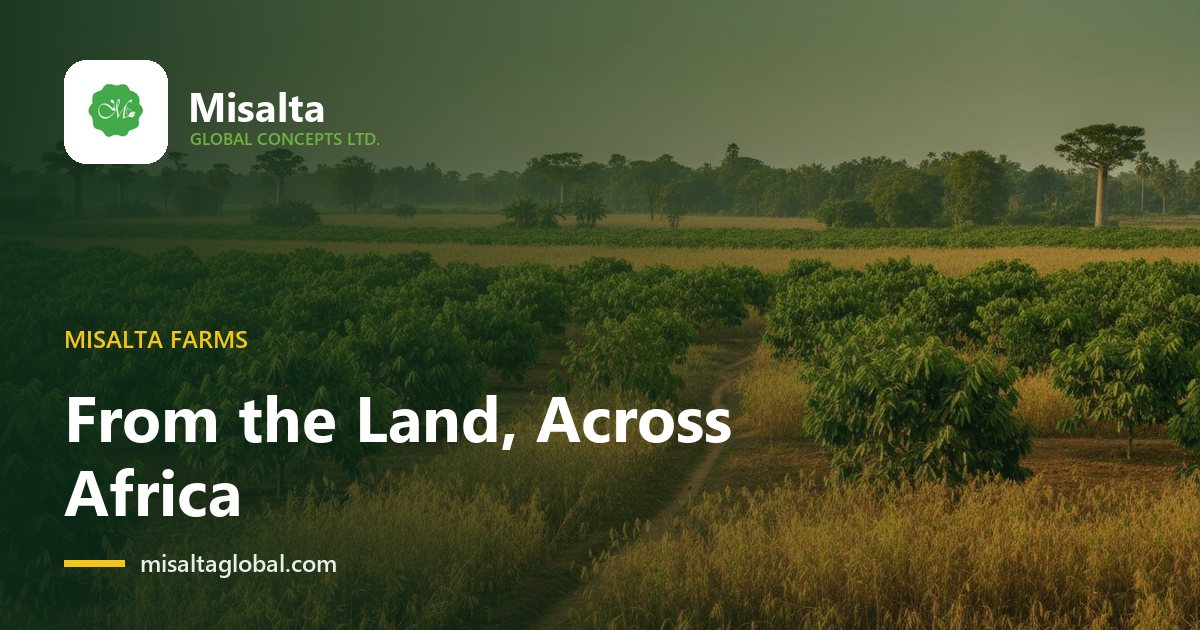
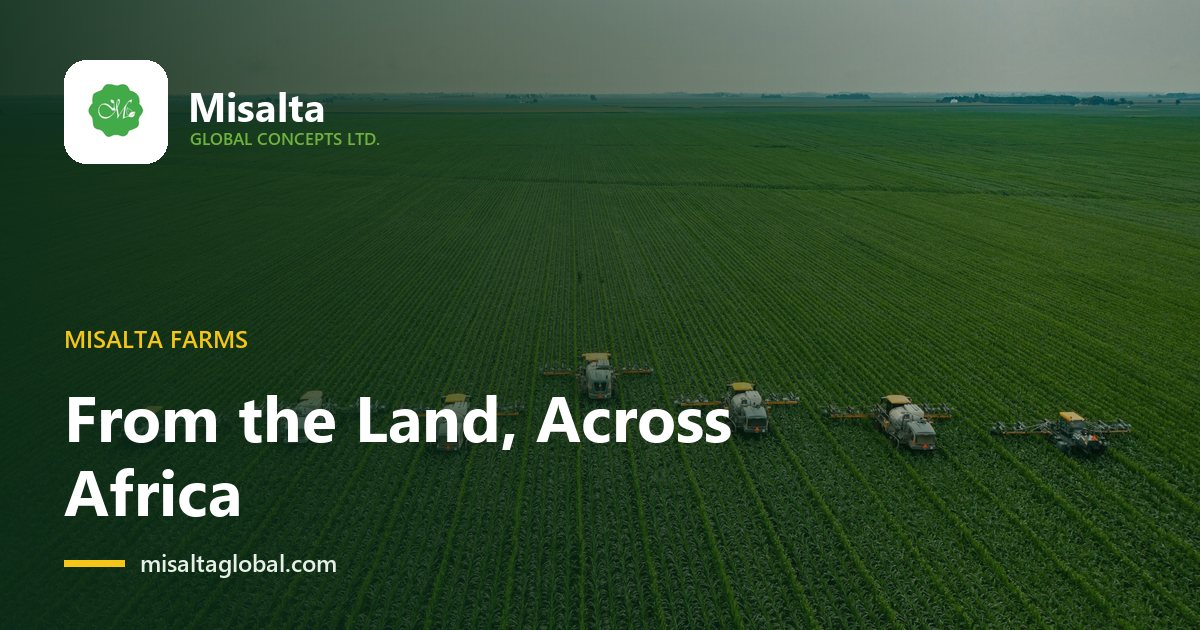
Use nine free stock photos: Logistics truck, Farms field and gallery, Agro Hubs harvest, Trade X precision tech
Pexels and Unsplash photos converted to WebP sm/md/lg; showcase, cards and
share images updated; sources recorded in docs/IMAGE-SOURCES.md; stock
originals kept out of git.

diff --git a/farms.html b/farms.html
@@ -13,7 +13,7 @@
 <body class="v2 agri" data-biz="farms">
 
 <!-- 1 · Hero: status, promise, who it's for, main action -->
-<section class="phero torn-b" style="--shade:linear-gradient(90deg,rgba(20,30,22,.78) 0%,rgba(20,30,22,.45) 60%,rgba(20,30,22,.2) 100%);--bg:url('images/photos/impact_field_panorama-lg.webp');--bg-sm:url('images/photos/impact_field_panorama-md.webp')"><div class="container">
+<section class="phero torn-b" style="--shade:linear-gradient(90deg,rgba(20,30,22,.78) 0%,rgba(20,30,22,.45) 60%,rgba(20,30,22,.2) 100%);--bg:url('images/photos/stock_aerial_tractors-lg.webp');--bg-sm:url('images/photos/stock_aerial_tractors-md.webp')"><div class="container">
   <div class="crumbs" role="navigation" aria-label="Breadcrumb"><a href="index.html">Home</a><i>/</i><a href="businesses.html">Our Businesses</a><i>/</i><span>Misalta Farms</span></div>
   <div style="margin-top:16px"><span class="chip dev on-dark">In development</span></div>
   <h1>From the Land, Across Africa</h1>
@@ -31,8 +31,8 @@
 </div></section>
 <section class="dark-sec"><div class="container">
   <div class="sec-head reveal"><span class="eyebrow">In the field</span><h2 class="title" style="color:#fff">Farming, Up Close</h2><p class="lead" style="color:#ffffffd0">The work behind every harvest.</p></div>
-  <div class="gal2 reveal"><img src="images/photos/cocoa_pods_hands-md.webp" srcset="images/photos/cocoa_pods_hands-sm.webp 480w, images/photos/cocoa_pods_hands-md.webp 864w" sizes="(max-width: 700px) 92vw, 600px" alt="Fresh cocoa pods held in a farmer's hands" loading="lazy"><img src="images/photos/hands_beans_closeup-md.webp" srcset="images/photos/hands_beans_closeup-sm.webp 480w, images/photos/hands_beans_closeup-md.webp 864w" sizes="(max-width: 700px) 92vw, 600px" alt="Hands holding freshly harvested grains" loading="lazy"></div>
-  <div class="gal2 reveal" style="margin-top:18px"><img src="images/photos/farmer_tablet_field-md.webp" srcset="images/photos/farmer_tablet_field-sm.webp 480w, images/photos/farmer_tablet_field-md.webp 864w" sizes="(max-width: 700px) 92vw, 600px" alt="Farmer using a tablet in the field" loading="lazy"><img src="images/photos/cooperative_group-md.webp" srcset="images/photos/cooperative_group-sm.webp 480w, images/photos/cooperative_group-md.webp 864w" sizes="(max-width: 700px) 92vw, 600px" alt="Members of a farming cooperative working together" loading="lazy"></div>
+  <div class="gal2 reveal"><img src="images/photos/cocoa_pods_hands-md.webp" srcset="images/photos/cocoa_pods_hands-sm.webp 480w, images/photos/cocoa_pods_hands-md.webp 864w" sizes="(max-width: 700px) 92vw, 600px" alt="Fresh cocoa pods held in a farmer's hands" loading="lazy"><img src="images/photos/stock_grain_closeup-md.webp" srcset="images/photos/stock_grain_closeup-sm.webp 480w, images/photos/stock_grain_closeup-md.webp 960w, images/photos/stock_grain_closeup-lg.webp 1600w" sizes="(max-width: 700px) 92vw, 600px" alt="Ripening grain in the field" loading="lazy"></div>
+  <div class="gal2 reveal" style="margin-top:18px"><img src="images/photos/stock_seedlings-md.webp" srcset="images/photos/stock_seedlings-sm.webp 480w, images/photos/stock_seedlings-md.webp 960w, images/photos/stock_seedlings-lg.webp 1600w" sizes="(max-width: 700px) 92vw, 600px" alt="Young seedlings growing in the soil" loading="lazy"><img src="images/photos/stock_irrigation_pivot-md.webp" srcset="images/photos/stock_irrigation_pivot-sm.webp 480w, images/photos/stock_irrigation_pivot-md.webp 960w, images/photos/stock_irrigation_pivot-lg.webp 1600w" sizes="(max-width: 700px) 92vw, 600px" alt="Irrigation system watering a green field" loading="lazy"></div>
 </div></section>
 <!-- 3 · Who it's for -->
 <section id="who-for"><div class="container">
@@ -105,6 +105,6 @@
     </form>
 </div></section>
 
-<script src="script.js?v=39"></script>
+<script src="script.js?v=40"></script>
 </body>
 </html>

diff --git a/script.js b/script.js
@@ -83,16 +83,16 @@ const BUSINESSES = [
     img: "hero_training_session.jpg", line: "Training, facility management, procurement and financial advisory, trusted by NNPCL and NCDC.",
     who: "Organisations and government agencies", cta: { label: "Book a service", open: "services" } },
   { id: "farms", group: "chain", stage: "1 · Grow", tab: "Farms", name: "Misalta Farms", status: "dev", page: "farms.html", domain: "",
-    img: "farmer_tablet_field.jpg", line: "Cultivation across Taraba State, supplying the rest of the group.",
+    img: "stock_crop_rows.jpg", line: "Cultivation across Taraba State, supplying the rest of the group.",
     who: "Landowners, cooperatives and offtakers", cta: { label: "Partner with us", open: "invest" } },
   { id: "agro-processing", group: "chain", stage: "2 · Add value", tab: "Agro-Processing", name: "Misalta Agro Processing Ltd.", status: "dev", page: "agro-processing.html", domain: "",
     img: "hero_cocoa_drying.jpg", line: "Cocoa butter and cocoa powder, processed in Taraba State.",
     who: "Commodity buyers and exporters", cta: { label: "Request a supply quote", open: "supply" } },
   { id: "agro-hubs", group: "chain", stage: "3 · Store", tab: "Agro Hubs", name: "Misalta Agro Hubs", status: "plan", page: "agro-hubs.html", domain: "",
-    img: "hands_beans_closeup.jpg", line: "Aggregation, storage and post-harvest handling across Taraba.",
+    img: "stock_harvest_hands.jpg", line: "Aggregation, storage and post-harvest handling across Taraba.",
     who: "Farmers, cooperatives and processors", cta: { label: "Partner on agro hubs", open: "invest" } },
   { id: "logistics", group: "chain", stage: "4 · Move", tab: "Logistics", name: "Misalta Logistics", status: "plan", page: "logistics.html", domain: "",
-    img: "hero_field_produce.jpg", line: "Cold rooms and specialised transport, from farm gate to buyer and across borders.",
+    img: "stock_truck_road.jpg", line: "Cold rooms and specialised transport, from farm gate to buyer and across borders.",
     who: "Producers, traders and industry", cta: { label: "Register interest", href: "logistics.html" } },
   { id: "trade-x", group: "chain", stage: "5 · Sell", tab: "Trade X", name: "Misalta Trade X", status: "soon", page: "trade-x.html", domain: "",
     img: "hero_market_nigeria.jpg", line: "A digital marketplace connecting farmers, suppliers, brokers and buyers.",
@@ -108,7 +108,10 @@ const BUSINESSES = [
    Widths per photo, for srcset: [sm, md, lg]. */
 const PHOTO_W = { cocoa_pods_hands: [480, 864, 864], cooperative_group: [480, 864, 864], dashboard_ui: [480, 960, 1440], farmer_tablet_field: [480, 864, 864],
   hands_beans_closeup: [480, 864, 864], hero_cocoa_drying: [480, 960, 1600], hero_farmland_nigeria: [480, 960, 1600], hero_field_produce: [480, 864, 864],
-  hero_market_nigeria: [480, 960, 1600], hero_training_session: [480, 960, 1600], impact_field_panorama: [480, 960, 1344] };
+  hero_market_nigeria: [480, 960, 1600], hero_training_session: [480, 960, 1600], impact_field_panorama: [480, 960, 1344],
+  stock_truck_road: [480, 960, 1600], stock_aerial_tractors: [480, 960, 1600], stock_crop_rows: [480, 960, 1600], stock_grain_closeup: [480, 960, 1600],
+  stock_seedlings: [480, 960, 1600], stock_harvest_hands: [480, 960, 1600], stock_drone_field: [480, 960, 1600], stock_field_robot: [480, 960, 1600],
+  stock_irrigation_pivot: [480, 960, 1600] };
 const photoBase = f => f.replace(/\.(jpg|png)$/, "");
 const photoUrl = (f, size = "lg") => PHOTO_W[photoBase(f)] ? `images/photos/${photoBase(f)}-${size}.webp` : f;
 const photoImg = (f, alt = "") => {

diff --git a/trade-x/what_to_expect.html b/trade-x/what_to_expect.html
@@ -63,6 +63,7 @@
     <div class="feat reveal"><span class="ibadge"><svg viewBox="0 0 24 24" fill="none" stroke="currentColor" stroke-width="1.7" stroke-linecap="round" stroke-linejoin="round"><rect x="3" y="6" width="18" height="13" rx="2"/><path d="M3 10h18M7 15h3"/></svg></span><h3>Crop finance</h3><p>Access to working capital linked to verified harvests and contracts.</p></div>
     <div class="feat reveal d1"><span class="ibadge"><svg viewBox="0 0 24 24" fill="none" stroke="currentColor" stroke-width="1.7" stroke-linecap="round" stroke-linejoin="round"><path d="M9 12l2 2 4-4"/><path d="M12 3l8 3v6c0 5-3.5 8-8 9-4.5-1-8-4-8-9V6z"/></svg></span><h3>Traceability &amp; EUDR readiness</h3><p>Lot-level origin, chain of custody and the records needed for EU deforestation-regulation (EUDR) markets.</p></div>
   </div>
+  <div class="gal2 reveal"><img src="images/photos/stock_drone_field-md.webp" srcset="images/photos/stock_drone_field-sm.webp 480w, images/photos/stock_drone_field-md.webp 960w, images/photos/stock_drone_field-lg.webp 1600w" sizes="(max-width: 700px) 92vw, 600px" alt="A drone surveying farmland" loading="lazy"><img src="images/photos/stock_field_robot-md.webp" srcset="images/photos/stock_field_robot-sm.webp 480w, images/photos/stock_field_robot-md.webp 960w, images/photos/stock_field_robot-lg.webp 1600w" sizes="(max-width: 700px) 92vw, 600px" alt="Aerial view of a field robot working between crop rows" loading="lazy"></div>
 </div></section>
 
 <!-- Deep dives -->
@@ -91,6 +92,6 @@
   <div class="acts"><a class="btn btn-gold" href="trade-x.html#early-access">Join early access</a><a class="btn btn-ghost" href="get-started.html#trade-x">Request a demo</a></div>
 </div></div></section>
 
-<script src="script.js?v=39"></script>
+<script src="script.js?v=40"></script>
 </body>
 </html>

diff --git a/agro-hubs.html b/agro-hubs.html
@@ -13,7 +13,7 @@
 <body class="v2 agri" data-biz="agro-hubs">
 
 <!-- 1 · Hero: status, promise, who it's for, main action -->
-<section class="phero torn-b" style="--shade:linear-gradient(90deg,rgba(20,30,22,.78) 0%,rgba(20,30,22,.45) 60%,rgba(20,30,22,.2) 100%);--bg:url('images/photos/hands_beans_closeup-lg.webp');--bg-sm:url('images/photos/hands_beans_closeup-md.webp')"><div class="container">
+<section class="phero torn-b" style="--shade:linear-gradient(90deg,rgba(20,30,22,.78) 0%,rgba(20,30,22,.45) 60%,rgba(20,30,22,.2) 100%);--bg:url('images/photos/stock_harvest_hands-lg.webp');--bg-sm:url('images/photos/stock_harvest_hands-md.webp')"><div class="container">
   <div class="crumbs" role="navigation" aria-label="Breadcrumb"><a href="index.html">Home</a><i>/</i><a href="businesses.html">Our Businesses</a><i>/</i><span>Misalta Agro Hubs</span></div>
   <div style="margin-top:16px"><span class="chip plan on-dark">Planned</span></div>
   <h1>Building Connections Across the Value Chain</h1>
@@ -101,6 +101,6 @@
     </form>
 </div></section>
 
-<script src="script.js?v=39"></script>
+<script src="script.js?v=40"></script>
 </body>
 </html>

diff --git a/logistics.html b/logistics.html
@@ -13,7 +13,7 @@
 <body class="v2" data-biz="logistics">
 
 <!-- 1 · Hero: status, promise, who it's for, main action -->
-<section class="phero torn-b" style="--shade:linear-gradient(rgba(7,28,17,.62),rgba(7,28,17,.72));--bg:url('images/photos/hero_field_produce-lg.webp');--bg-sm:url('images/photos/hero_field_produce-md.webp')"><div class="container">
+<section class="phero torn-b" style="--shade:linear-gradient(rgba(7,28,17,.62),rgba(7,28,17,.72));--bg:url('images/photos/stock_truck_road-lg.webp');--bg-sm:url('images/photos/stock_truck_road-md.webp')"><div class="container">
   <div class="crumbs" role="navigation" aria-label="Breadcrumb"><a href="index.html">Home</a><i>/</i><a href="businesses.html">Our Businesses</a><i>/</i><span>Misalta Logistics</span></div>
   <div style="margin-top:16px"><span class="chip plan on-dark">Planned</span></div>
   <h1>Moving Goods, Across the Country and the Continent</h1>
@@ -91,6 +91,6 @@
     </form>
 </div></section>
 
-<script src="script.js?v=39"></script>
+<script src="script.js?v=40"></script>
 </body>
 </html>

diff --git a/businesses.html b/businesses.html
@@ -55,6 +55,6 @@
   <div class="acts"><a class="btn btn-gold" href="consulting.html">Explore Misalta Consulting</a><a class="btn btn-ghost" href="investment.html">Invest &amp; Partner</a></div>
 </div></div></section>
 
-<script src="script.js?v=39"></script>
+<script src="script.js?v=40"></script>
 </body>
 </html>

diff --git a/investment.html b/investment.html
@@ -96,6 +96,6 @@
   <div class="acts"><a class="btn btn-gold" href="#" data-open="invest">Make an investment enquiry</a><a class="btn btn-ghost" href="contact.html">Contact us</a></div>
 </div></div></section>
 
-<script src="script.js?v=39"></script>
+<script src="script.js?v=40"></script>
 </body>
 </html>

diff --git a/news.html b/news.html
@@ -32,6 +32,6 @@
   <div class="acts"><a class="btn btn-gold" href="contact.html#message">Contact the media team</a><a class="btn btn-ghost" href="about.html">About Misalta</a></div>
 </div></div></section>
 
-<script src="script.js?v=39"></script>
+<script src="script.js?v=40"></script>
 </body>
 </html>

diff --git a/about.html b/about.html
@@ -117,6 +117,6 @@
   <div class="acts"><a class="btn btn-gold" href="contact.html">Contact Us</a><a class="btn btn-ghost" href="investment.html">Invest &amp; Partner</a></div>
 </div></div></section>
 
-<script src="script.js?v=39"></script>
+<script src="script.js?v=40"></script>
 </body>
 </html>

diff --git a/agro-processing.html b/agro-processing.html
@@ -102,6 +102,6 @@
     </form>
 </div></section>
 
-<script src="script.js?v=39"></script>
+<script src="script.js?v=40"></script>
 </body>
 </html>

diff --git a/consulting.html b/consulting.html
@@ -120,6 +120,6 @@
     </form>
 </div></section>
 
-<script src="script.js?v=39"></script>
+<script src="script.js?v=40"></script>
 </body>
 </html>

diff --git a/construction.html b/construction.html
@@ -89,6 +89,6 @@
     </form>
 </div></section>
 
-<script src="script.js?v=39"></script>
+<script src="script.js?v=40"></script>
 </body>
 </html>
